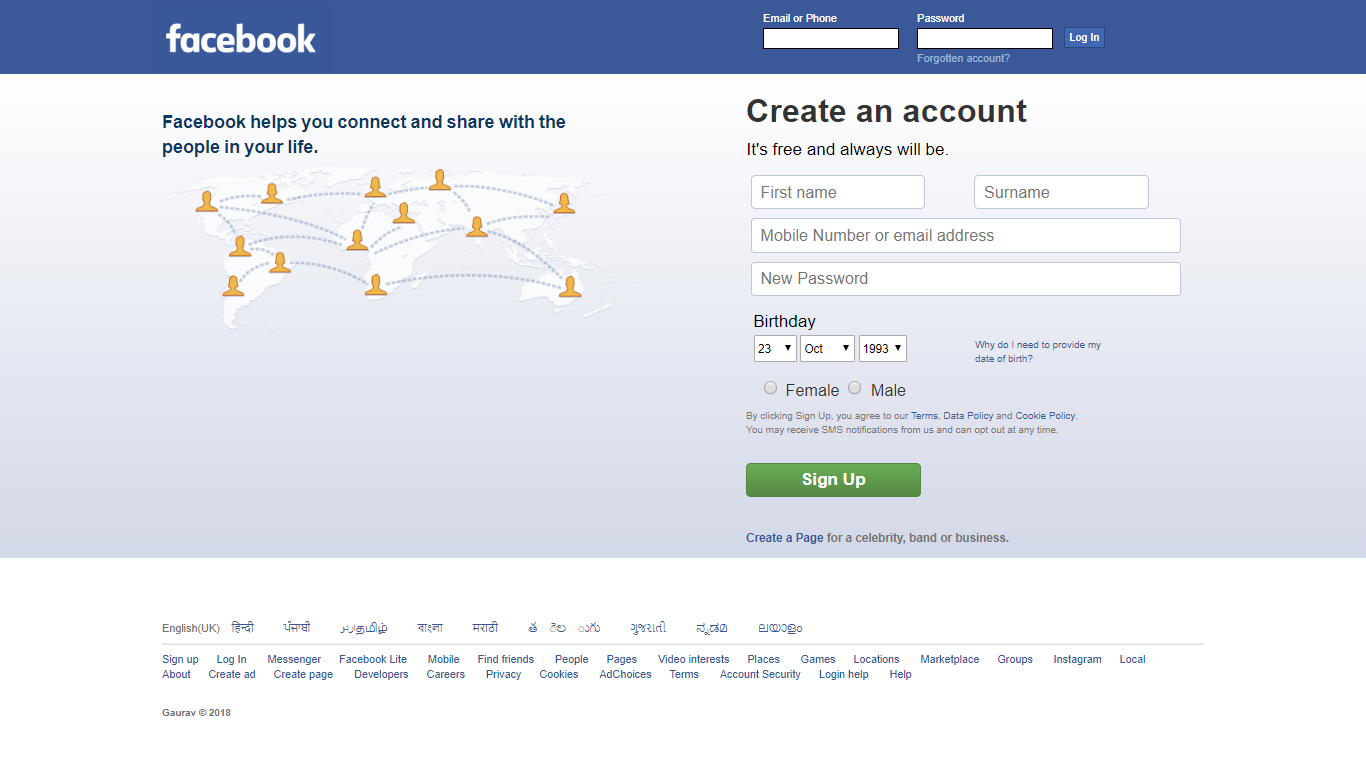
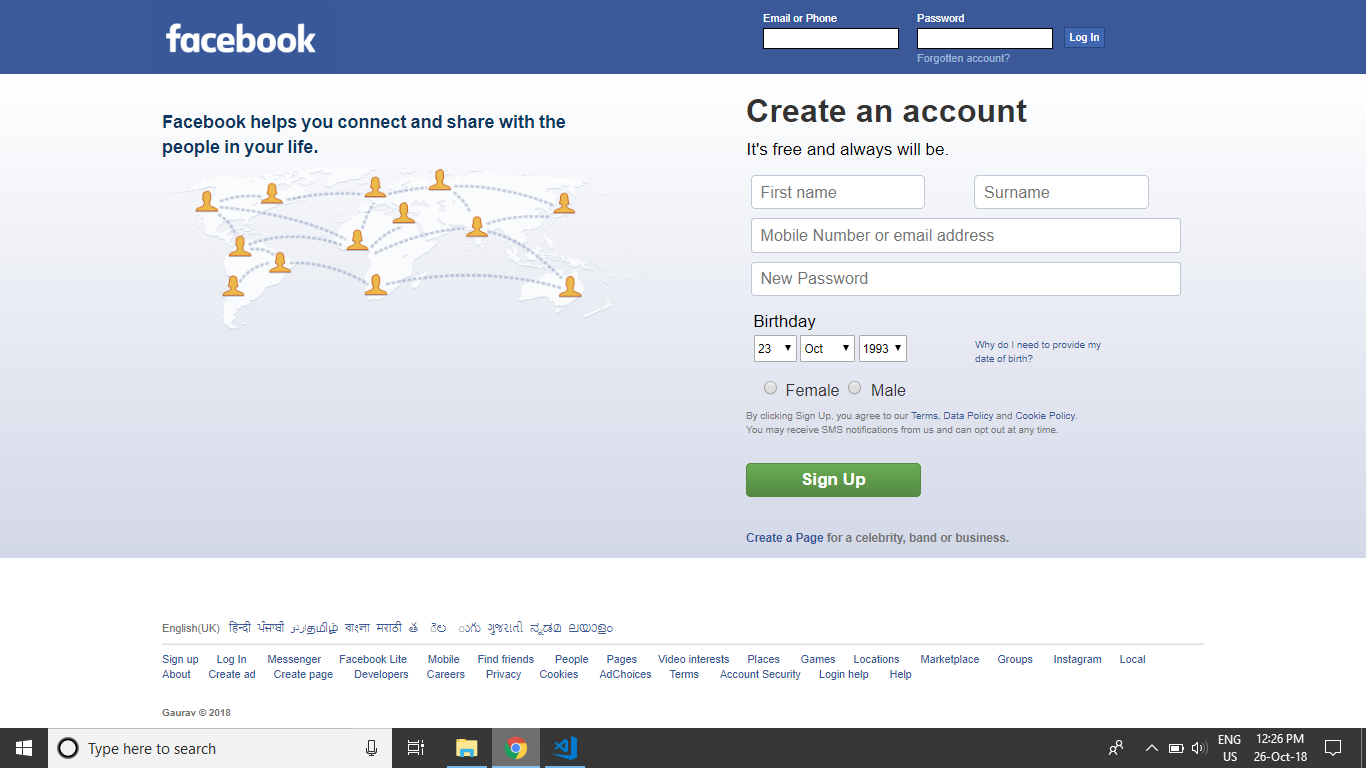
Re Added Previous Changes

diff --git a/index.css b/index.css
@@ -110,4 +110,8 @@ background-image: linear-gradient(rgb(255, 255, 255), rgb(211, 216, 232));
 .footer hr{
     background-color: rgb(221,223,226);
     height: 1px;
+    margin: 8px 0px;}
+.footer .inner_container span a{
+       margin: -3px;
+       font-size: 12px;
 }
